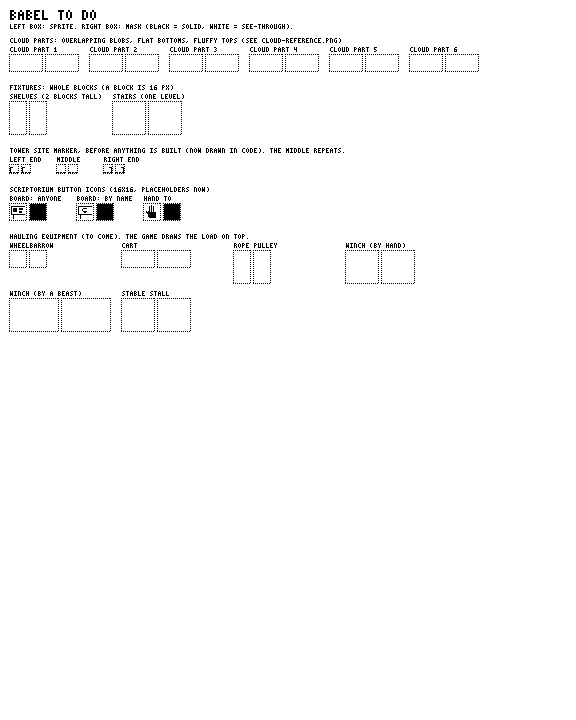
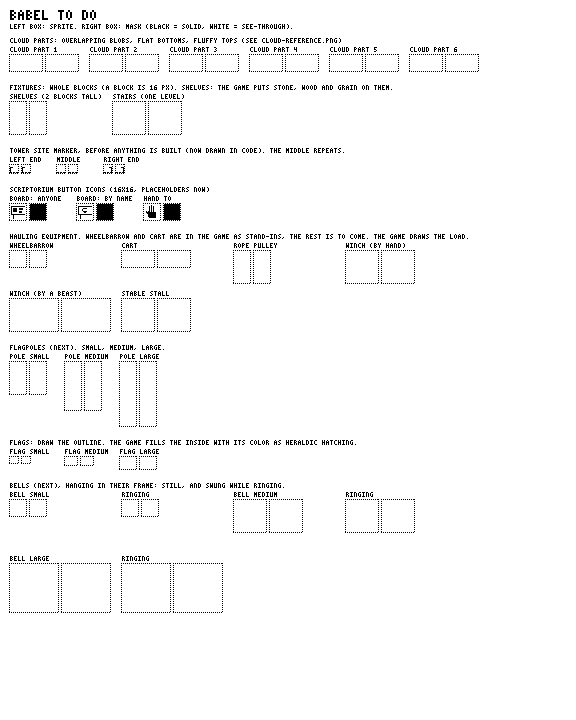
Babel To Do sheet: one page for what's left to draw, with flags and bells
Babel Extras was never drawn and duplicated the shelves and stairs at
other sizes, so it's folded into To Do. The shelves box is now the real
fixture.shelves (16x32, two blocks tall), so a drawing replaces the
stand-in like the wheelbarrow and cart already do.

Flags and bells (DESIGN.md 16.7) are next on the roadmap after the 16.9
steps, so their boxes go on now rather than in another round: poles and
flag cloths in three sizes (the game fills a cloth with its colour's
heraldic hatching), and bells in three sizes, still and ringing.

diff --git a/tools/sheets.ts b/tools/sheets.ts
@@ -95,9 +95,6 @@ const world = (list: WorldSprite[]): Slot[] =>
 /** The pages and what's on them, filled with the given art. */
 export function buildPages(art: ArtSet = defaultArt(), worldArt?: { terrain: WorldSprite[]; nature: WorldSprite[]; buildings: WorldSprite[]; fixtures: WorldSprite[]; sky: WorldSprite[]; extras?: WorldSprite[] }): Page[] {
   const wa = worldArt ?? { terrain: terrainArt(), nature: natureArt(), buildings: buildingArt(), fixtures: fixtureArt(), sky: skyArt(), extras: extrasArt() };
-  // boxes the user asked to get blank, to draw from scratch
-  const blank = new Set(['fixture.shelves']);
-  const extras = world(wa.extras ?? extrasArt()).map((sl) => (blank.has(sl.key) ? { ...sl, grid: null } : sl));
   const bodies: Slot[] = [];
   const nBody = art.body.length + SPARE.body;
   for (let v = 0; v < nBody; v++) {
@@ -166,9 +163,10 @@ export function buildPages(art: ArtSet = defaultArt(), worldArt?: { terrain: Wor
           slots: Array.from({ length: 6 }, (_, i) => todo(`cloud.${i}`, `CLOUD PART ${i + 1}`, 32, 16)),
         },
         {
-          title: 'FIXTURES: WHOLE BLOCKS (A BLOCK IS 16 PX)',
+          title: 'FIXTURES: WHOLE BLOCKS (A BLOCK IS 16 PX). SHELVES: THE GAME PUTS STONE, WOOD AND GRAIN ON THEM.',
           perRow: 3,
-          slots: [todo('shelves', 'SHELVES (2 BLOCKS TALL)', 16, 32), todo('stairs', 'STAIRS (ONE LEVEL)', 32, 32)],
+          // the real name, so a drawing here replaces the stand-in in the game
+          slots: [{ key: 'fixture.shelves', label: 'SHELVES (2 BLOCKS TALL)', w: 16, h: 32, grid: null }, todo('stairs', 'STAIRS (ONE LEVEL)', 32, 32)],
         },
         {
           title: 'TOWER SITE MARKER, BEFORE ANYTHING IS BUILT (NOW DRAWN IN CODE). THE MIDDLE REPEATS.',
@@ -181,7 +179,7 @@ export function buildPages(art: ArtSet = defaultArt(), worldArt?: { terrain: Wor
           slots: [todo('icon.anyone', 'BOARD: ANYONE', 16, 16, svgIcon(BOARD_ICON)), todo('icon.named', 'BOARD: BY NAME', 16, 16, svgIcon(NAMED_ICON)), todo('icon.hand', 'HAND TO', 16, 16, svgIcon(HAND_ICON))],
         },
         {
-          title: 'HAULING EQUIPMENT (TO COME). THE GAME DRAWS THE LOAD ON TOP.',
+          title: 'HAULING EQUIPMENT. WHEELBARROW AND CART ARE IN THE GAME AS STAND-INS, THE REST IS TO COME. THE GAME DRAWS THE LOAD.',
           perRow: 4,
           slots: [
             // the real names, so a drawing here replaces the stand-in in the game
@@ -193,13 +191,29 @@ export function buildPages(art: ArtSet = defaultArt(), worldArt?: { terrain: Wor
             todo('stable', 'STABLE STALL', 32, 32),
           ],
         },
-      ],
-    },
-    {
-      name: 'Babel Extras',
-      title: 'BABEL EXTRAS',
-      groups: [
-        { title: 'NEW PIECES. SHELVES: PLANKS ON ROWS 5, 10 AND 15', perRow: 3, slots: extras },
+        {
+          // DESIGN.md 16.7: flags and bells come in three sizes; a flag's colour is heraldic hatching
+          title: 'FLAGPOLES (NEXT). SMALL, MEDIUM, LARGE.',
+          perRow: 3,
+          slots: [todo('flagpole.s', 'POLE SMALL', 16, 32), todo('flagpole.m', 'POLE MEDIUM', 16, 48), todo('flagpole.l', 'POLE LARGE', 16, 64)],
+        },
+        {
+          title: 'FLAGS: DRAW THE OUTLINE. THE GAME FILLS THE INSIDE WITH ITS COLOR AS HERALDIC HATCHING.',
+          perRow: 3,
+          slots: [todo('flag.s', 'FLAG SMALL', 8, 6), todo('flag.m', 'FLAG MEDIUM', 12, 8), todo('flag.l', 'FLAG LARGE', 16, 12)],
+        },
+        {
+          title: 'BELLS (NEXT), HANGING IN THEIR FRAME: STILL, AND SWUNG WHILE RINGING.',
+          perRow: 4,
+          slots: [
+            todo('bell.s', 'BELL SMALL', 16, 16),
+            todo('bell.s.ring', 'RINGING', 16, 16),
+            todo('bell.m', 'BELL MEDIUM', 32, 32),
+            todo('bell.m.ring', 'RINGING', 32, 32),
+            todo('bell.l', 'BELL LARGE', 48, 48),
+            todo('bell.l.ring', 'RINGING', 48, 48),
+          ],
+        },
       ],
     },
   ];

diff --git a/docs/SPRITES.md b/docs/SPRITES.md
@@ -20,7 +20,8 @@ Moving MacPaint files in and out of the emulator turned out to be a pain, so **a
 **What the first delivery taught (2026-11-23):**
 - **Inside the boxes is best,** but anything else is fine if the commit says what it is. The new dirt top was drawn just right of its box; it was found by comparing every box with the old art.
 - **The forest PNG had 19 grey pixels** (a smoothing step somewhere, or a scaled copy). They're rounded to black or white, which is harmless, but a straight 1:1 screenshot avoids it.
-- **New boxes go on a new page, Babel Extras,** so the boxes on the pages already drawn never move. `art-src/Babel Extras.png` has storage shelves (blank, as asked; the game draws stone, wood and grain on planks at rows 5, 10 and 15), stairs (24×32, a placeholder for the roadmap) and a deck for two-story houses (a copy of the tower deck, to redraw if houses should look different). Screenshot it like the others, and add it to `SHEET_SHOTS` in `tools/shots.ts`.
+- **New boxes go on a new page, Babel Extras,** so the boxes on the pages already drawn never move. `art-src/Babel Extras.png` has storage shelves (blank, as asked; the game draws stone, wood and grain on planks at rows 5, 10 and 15), stairs (24×32, a placeholder for the roadmap) and a deck for two-story houses (a copy of the tower deck, to redraw if houses should look different). Screenshot it like the others, and add it to `SHEET_SHOTS` in `tools/shots.ts`. *(2026-11-26: Babel Extras was never drawn, so it's gone; its shelves and stairs are on Babel To Do.)*
+- **Babel To Do (2026-11-26)** is the one sheet for everything still to draw: cloud parts, shelves (16x32, two blocks tall; the box is the real `fixture.shelves`, so a drawing replaces the stand-in, and the rows the game puts stone, wood and grain on get set when it arrives), stairs, the tower-site marker, the Scriptorium's button icons, hauling equipment (the wheelbarrow and cart boxes also feed straight in), and flags and bells for DESIGN.md §16.7: poles and flag cloths in three sizes (the game fills a cloth's inside with its colour's hatching) and bells in three sizes, still and ringing. Only the shelves, wheelbarrow and cart reach the game from the sheet today; the rest gets wired in as each feature is built.
 - **Answers from the user (2026-11-24):** the dirt top drawn beside its box is the new one (it just wasn't moved into place). The field's stubble-to-full-heads is variety, not growth stages: it stays static unless fields can run out one day. The quarry rock is a texture. The tower deck and wall were meant to be redrawn but didn't save; they'll come with the portrait sprint. The ladder is unchanged because there was nothing to change, and the house walls on purpose.
 
 - **Second delivery (2026-11-24):** updated screenshots of the World and Buildings sheets replaced the old ones in `art-src/shots/`. Changed: the tower's wall, deck and ladder; the tops of the building wall, door and window; the roofs; the stockpile. The house deck is still a copy of the tower deck.

diff --git a/docs/HANDOFF.md b/docs/HANDOFF.md
@@ -107,7 +107,7 @@ Built and tested: the random map, the opening text and founding, placement mode 
 1. **§16.9, step 3: the bonus letter.** Then 4 recruiting, 5 the other alerts (including the win and everyone-gone alerts, the menu-bar list, and somewhere to unmute), 6 the Stores window, 7 saves, 8 the New Game screen and taller maps, 9 the title screen and Settings. Build in that order.
 2. **Flags and bells** (§16.7): fixtures, RAISE / LOWER / RING, range circles, heraldic hatching, and the word **report** (§16.9 step 6). Then standing orders on boards.
 3. **Hauling, the rest of §16.8:** the rope pulley and winches up the tower, then the wagon, beasts of burden and the stable.
-4. **Art from the user:** the "Babel To Do" sheet (wheelbarrow and cart boxes feed straight in), more beards and hats for portraits, clouds from parts. Each delivery: add its pieces to `tools/shots.ts`, run `npm run art:import`, and compare every box with the old art. Sheets go to the user as PNGs only.
+4. **Art from the user:** the "Babel To Do" sheet (`art-src/Babel To Do.png`, refreshed 2026-11-26 with flags and bells; shelves, wheelbarrow and cart feed straight in, see SPRITES.md), more beards and hats for portraits, clouds from parts. Each delivery: add its pieces to `tools/shots.ts`, run `npm run art:import`, and compare every box with the old art. Sheets go to the user as PNGs only.
 5. **Playtest notes** as they come: the tutorial text needs the user's voice; gold from bar takings; whether the starting supplies last the grace period; social tuning (§16.6) only from playtests.
 6. **P0 leftovers:** mailboxes and upper job boards, the COPY order, night changing behavior.
 7. **The rest of §16:** the About window (quick), stairs, the trader, pilgrimages.
